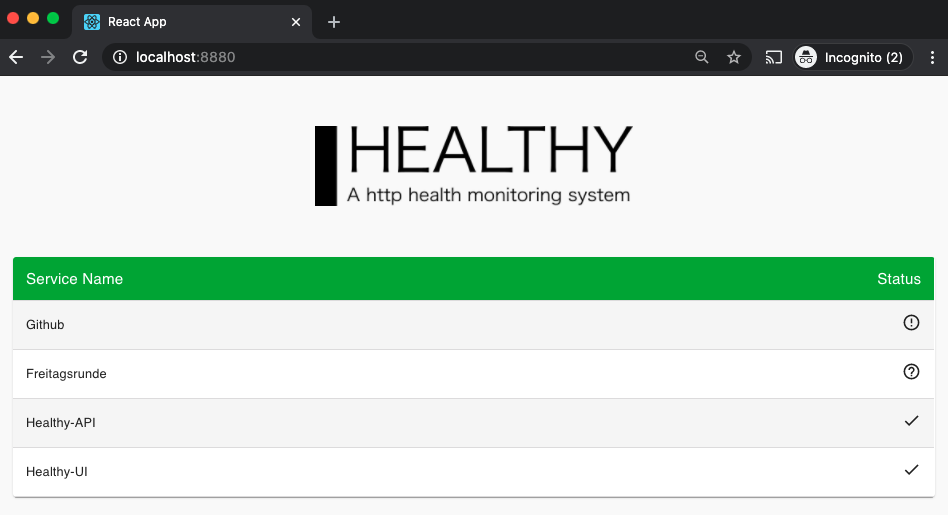
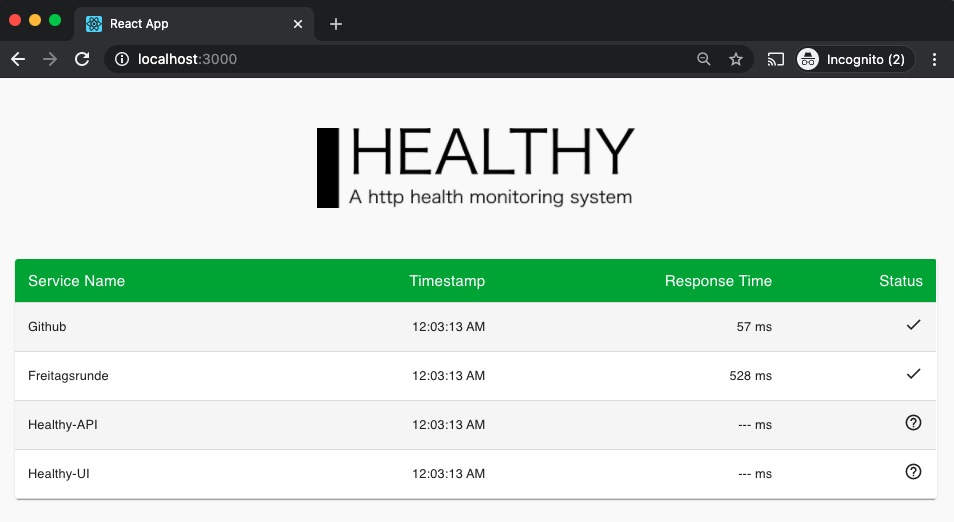
Add response time and timestamp

diff --git a/healthy-api/src/main/kotlin/me/hechenberger/healthy/domain/HealthScheduler.kt b/healthy-api/src/main/kotlin/me/hechenberger/healthy/domain/HealthScheduler.kt
@@ -9,7 +9,8 @@ import org.springframework.scheduling.annotation.Scheduled
 import org.springframework.stereotype.Service
 import java.net.InetAddress
 import java.net.URI
-import java.net.URL
+import java.time.LocalDateTime
+import kotlin.system.measureTimeMillis
 
 
 private val log = KotlinLogging.logger {}
@@ -30,19 +31,24 @@ class HealthScheduler @Autowired constructor(var healthRepository: HealthReposit
     fun checkHealth() {
         healthRepository.getApplications().map { app ->
             GlobalScope.async(Dispatchers.Default) {
+                var statusCode = Int.MIN_VALUE
+                var responseTimeInMillis: Long = -1
                 try {
                     withTimeout(timeoutInMilliSec) {
                         log.info("start request -> ${app.name}")
-                        var statusCode: Int = requestUrl(app.url)
-                        log.info("${app.name} response with status code ${statusCode}")
-                        app.updateStatus(statusCode)
-                        healthRepository.update(app.name, app.status)
+                        responseTimeInMillis = measureTimeMillis {
+                            statusCode = requestUrl(app.url)
+                        }
+                        log.info("${app.name} response with status code ${statusCode} took ${responseTimeInMillis}ms")
                     }
                 } catch (e: java.lang.Exception) {
                     println("timeout hit in $app")
-                    app.updateStatus(Int.MIN_VALUE)
-                    healthRepository.update(app.name, app.status)
                 }
+                // TODO: refactor this part
+                app.updateStatus(statusCode)
+                app.responseTimeInMillis = responseTimeInMillis
+                app.timestamp = LocalDateTime.now()
+                healthRepository.save(app.name, app.status, app.url, app.upHttpCode, app.downHttpCode, app.responseTimeInMillis, app.timestamp)
             }
         }
     }
@@ -52,9 +58,9 @@ fun requestUrl(url: String): Int {
     val urlIp = InetAddress.getByName(URI.create(url).host)
     log.info { "$url ${urlIp.getHostAddress()}" }
     val (request, response, result) = Fuel
-            .reset()
-            .get(url)
-            .timeout(100)
-            .useHttpCache(false).responseString()
+        .reset()
+        .get(url)
+        .timeout(100)
+        .useHttpCache(false).responseString()
     return response.statusCode
 }

diff --git a/healthy-ui/src/components/HealthTable.tsx b/healthy-ui/src/components/HealthTable.tsx
@@ -48,7 +48,9 @@ type HealthList = {
 
 type Health = {
   name: string,
-  status: string
+  status: string,
+  responseTimeInMillis: number,
+  timestamp: Date
 }
 
 export default function HealthTables(healthList: HealthList) {
@@ -60,8 +62,9 @@ export default function HealthTables(healthList: HealthList) {
         <TableHead>
           <TableRow>
             <StyledTableCell>Service Name</StyledTableCell>
+            <StyledTableCell align="right">Timestamp</StyledTableCell>
+            <StyledTableCell align="right">Response Time</StyledTableCell>
             <StyledTableCell align="right">Status</StyledTableCell>
-            {/* <StyledTableCell align="right">Response Time</StyledTableCell> */}
           </TableRow>
         </TableHead>
         <TableBody>
@@ -70,12 +73,17 @@ export default function HealthTables(healthList: HealthList) {
             <StyledTableRow key={key}>
               {console.log(row)}
               <StyledTableCell >{row.name}</StyledTableCell>
+              <StyledTableCell align="right">{new Intl.DateTimeFormat("en-US", {
+                hour: "2-digit",
+                minute: "2-digit",
+                second: "2-digit"
+              }).format(new Date(row.timestamp))}</StyledTableCell>
+              <StyledTableCell align="right">{row.responseTimeInMillis > 0 ? row.responseTimeInMillis : '---'} ms</StyledTableCell>
               <StyledTableCell align="right">{
-              row.status==="UNKNOWN" && <HelpOutlineOutlinedIcon></HelpOutlineOutlinedIcon> ||
-              row.status==="UP" && <CheckIcon></CheckIcon> ||
-              row.status==="DOWN" && <ErrorOutlineOutlinedIcon></ErrorOutlineOutlinedIcon>
+                row.status === "UP" ? <CheckIcon></CheckIcon>
+                  : row.status === "DOWN" ? <ErrorOutlineOutlinedIcon></ErrorOutlineOutlinedIcon>
+                    : <HelpOutlineOutlinedIcon></HelpOutlineOutlinedIcon>
               }</StyledTableCell>
-              {/* <StyledTableCell align="right">10ms</StyledTableCell> */}
             </StyledTableRow>
           ))}
         </TableBody>

diff --git a/healthy-api/src/main/kotlin/me/hechenberger/healthy/infrastructure/application/repository/InMemoryHealthRepository.kt b/healthy-api/src/main/kotlin/me/hechenberger/healthy/infrastructure/application/repository/InMemoryHealthRepository.kt
@@ -5,8 +5,10 @@ import me.hechenberger.healthy.domain.health.Status
 import me.hechenberger.healthy.domain.health.repository.HealthRepository
 import mu.KotlinLogging
 import org.springframework.stereotype.Repository
+import java.time.LocalDateTime
 
 private val log = KotlinLogging.logger {}
+
 @Repository
 class InMemoryHealthRepository :
     HealthRepository {
@@ -20,22 +22,19 @@ class InMemoryHealthRepository :
         return applications.getValue(name)
     }
 
-    override fun update(name: String, status: Status) {
-        applications.getValue(name).status = status
-        log.info("${name} is ${status}")
-    }
-
     override fun save(
         name: String,
         status: Status,
         url: String,
         upHttpCode: List<Int>,
-        downHttpCode: List<Int>
+        downHttpCode: List<Int>,
+        responseTimeInMillis: Long,
+        timestamp: LocalDateTime
     ) {
         applications = applications.plus(
             Pair(
                 name,
-                Health(name, status, url, upHttpCode, downHttpCode)
+                Health(name, status, url, upHttpCode, downHttpCode, responseTimeInMillis, timestamp)
             )
         )
     }

diff --git a/healthy-api/src/main/kotlin/me/hechenberger/healthy/application/dto/HealthDto.kt b/healthy-api/src/main/kotlin/me/hechenberger/healthy/application/dto/HealthDto.kt
@@ -2,14 +2,22 @@ package me.hechenberger.healthy.application.dto
 
 import me.hechenberger.healthy.domain.health.Health
 import me.hechenberger.healthy.domain.health.Status
+import java.time.LocalDateTime
 
-class HealthDto constructor(var name: String, var status: Status) {
+class HealthDto(
+    var name: String,
+    var status: Status,
+    var responseTimeInMillis: Long,
+    var timestamp: LocalDateTime
+) {
 
     companion object {
         fun toApplicationDto(health: Health): HealthDto {
             return HealthDto(
                 health.name,
-                health.status
+                health.status,
+                health.responseTimeInMillis,
+                health.timestamp
             )
         }
     }

diff --git a/healthy-api/src/main/kotlin/me/hechenberger/healthy/domain/health/repository/HealthRepository.kt b/healthy-api/src/main/kotlin/me/hechenberger/healthy/domain/health/repository/HealthRepository.kt
@@ -2,6 +2,7 @@ package me.hechenberger.healthy.domain.health.repository
 
 import me.hechenberger.healthy.domain.health.Health
 import me.hechenberger.healthy.domain.health.Status
+import java.time.LocalDateTime
 
 interface HealthRepository {
 
@@ -9,13 +10,13 @@ interface HealthRepository {
 
     fun get(name: String): Health
 
-    fun update(name: String, status: Status)
-
     fun save(
         name: String,
         status: Status,
         url: String,
         upHttpCode: List<Int>,
-        downHttpCode: List<Int>
+        downHttpCode: List<Int>,
+        responseTime: Long,
+        timestampInMillis: LocalDateTime
     )
 }

diff --git a/healthy-api/src/main/kotlin/me/hechenberger/healthy/application/configuration/ConfigurationService.kt b/healthy-api/src/main/kotlin/me/hechenberger/healthy/application/configuration/ConfigurationService.kt
@@ -12,6 +12,7 @@ import org.springframework.context.annotation.PropertySource
 import org.springframework.stereotype.Service
 import java.net.URL
 import java.nio.file.Files
+import java.time.LocalDateTime
 
 private val log = KotlinLogging.logger {}
 
@@ -33,7 +34,9 @@ class ConfigurationService(@Value("\${healthy.config.location}") var location: S
                 Status.UNKNOWN,
                 endpoint.url,
                 endpoint.upHttpCode,
-                endpoint.downHttpCode
+                endpoint.downHttpCode,
+                0,
+                LocalDateTime.MIN
             )
         }
     }

diff --git a/healthy-api/src/main/kotlin/me/hechenberger/healthy/application/HealthController.kt b/healthy-api/src/main/kotlin/me/hechenberger/healthy/application/HealthController.kt
@@ -16,7 +16,15 @@ class HealthController @Autowired constructor(
 
     init {
         configurationService.getEndpoints()
-            .forEach { app -> healthRepository.save(app.name, app.status, app.url, app.upHttpCode, app.downHttpCode) }
+            .forEach { app -> healthRepository.save(
+                app.name,
+                app.status,
+                app.url,
+                app.upHttpCode,
+                app.downHttpCode,
+                app.responseTimeInMillis,
+                app.timestamp
+            ) }
     }
 
     @GetMapping("/health")

diff --git a/healthy-api/src/main/kotlin/me/hechenberger/healthy/domain/health/Health.kt b/healthy-api/src/main/kotlin/me/hechenberger/healthy/domain/health/Health.kt
@@ -1,11 +1,17 @@
 package me.hechenberger.healthy.domain.health
 
+import lombok.Data
+import java.time.LocalDateTime
+
+@Data
 data class Health(
-    val name: String,
+    var name: String,
     var status: Status,
-    val url: String,
-    val upHttpCode: List<Int>,
-    val downHttpCode: List<Int>
+    var url: String,
+    var upHttpCode: List<Int>,
+    var downHttpCode: List<Int>,
+    var responseTimeInMillis: Long,
+    var timestamp: LocalDateTime
 ) {
     fun updateStatus(statusCode: Int) {
         if(upHttpCode.contains(statusCode)){

diff --git a/healthy-ui/src/App.js b/healthy-ui/src/App.js
@@ -1,5 +1,4 @@
 import React from 'react'
-import logo from './logo.svg'
 import healthyLogo from './healthy_logo.png'
 import { useQuery } from "react-query"
 import { ReactQueryDevtools } from 'react-query-devtools'
@@ -28,7 +27,7 @@ function App() {
       healthy_api+"/health"
     ).then((res) => res.json())
   ,{
-    refetchInterval: 5,
+    refetchInterval: 10,
     refetchIntervalInBackground: true
   });
   if (isLoading) return "Loading...";

diff --git a/healthy-api/README.md b/healthy-api/README.md
@@ -18,12 +18,12 @@ to monitor. I just wanted to know if they are up and running.
 - [X] make HTTP response configurable (ex. 200 -> healthy, 301 or 302 -> unhealthy)
 - [X] create docker image
 - [X] query endpoints in a specified time interval.
+- [X] measure response time of endpoint
 - [ ] implement basic http authentication
 - [ ] make timeouts configurable
 - [ ] follow redirects
 - [ ] describe `healthy.yaml`
 - [ ] implement pipeline
-- [ ] measure response time of endpoint
 - [ ] provide prometheus metric endpoint for scraper
 - [ ] add IP response
 - [ ] document the endpoint (swagger?)
